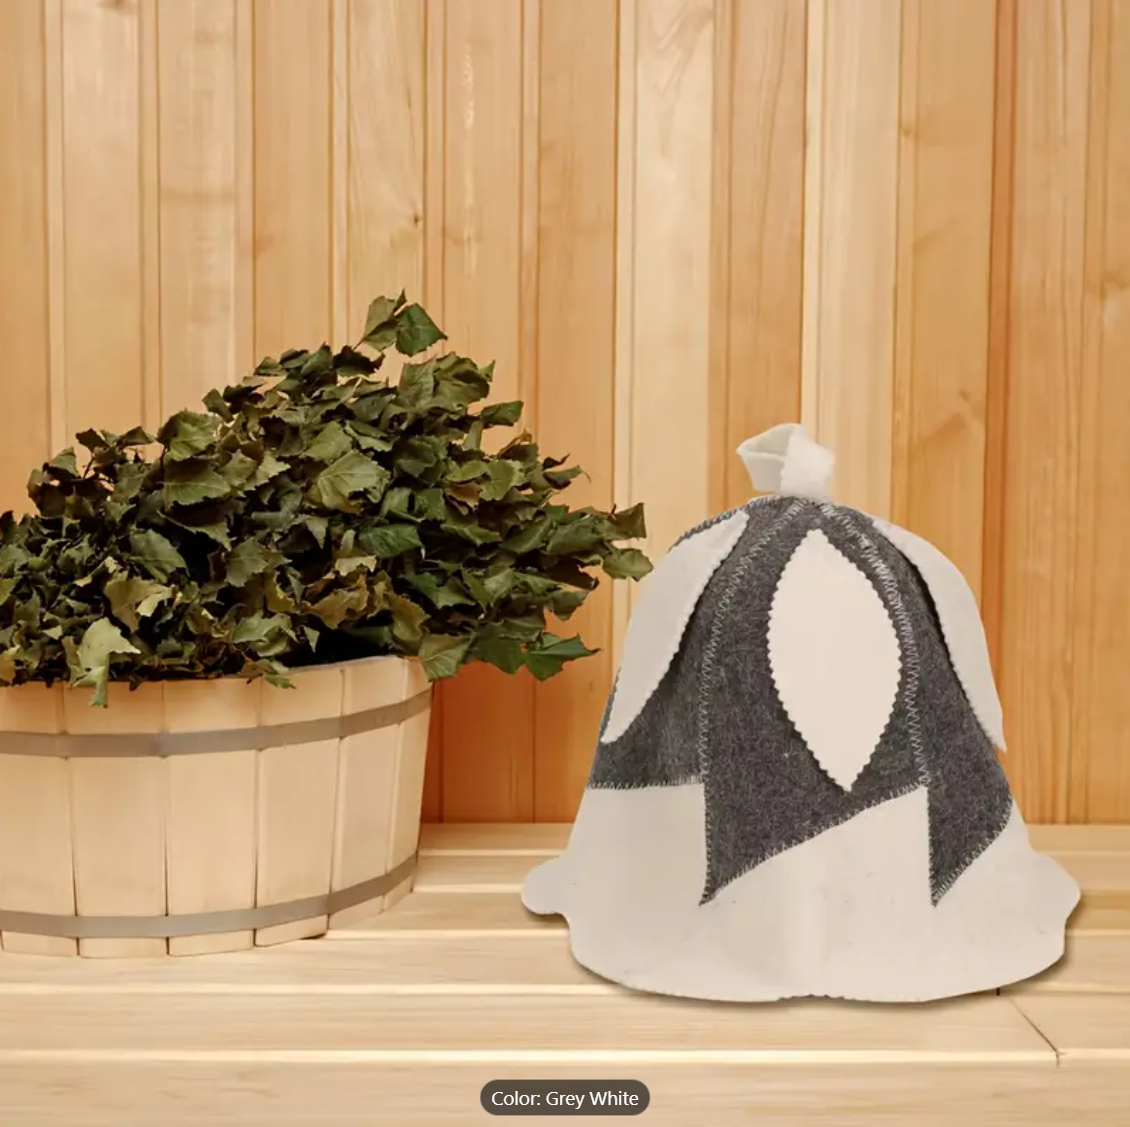
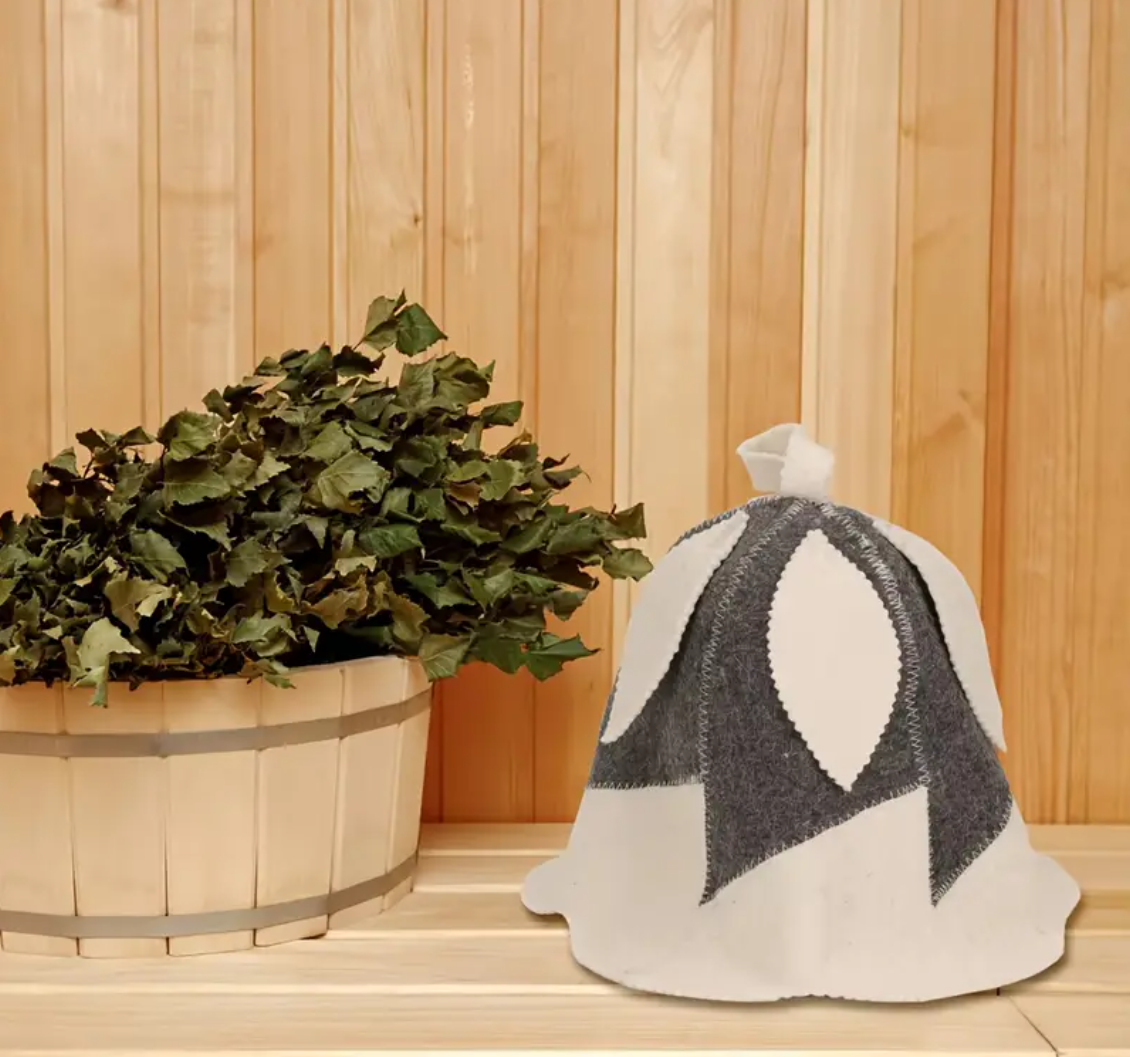
Constrain hero image height, crop caption strip from hero photo

diff --git a/css/style.css b/css/style.css
@@ -83,7 +83,8 @@ header.site {
 .hero h1 em { font-style: italic; color: var(--cedar); }
 .hero p.lead { font-size: 1.12rem; color: var(--char-soft); margin-bottom: 28px; max-width: 46ch; }
 .hero-cta { display: flex; gap: 14px; flex-wrap: wrap; }
-.hero-img { border-radius: 24px; overflow: hidden; box-shadow: var(--shadow); transform: rotate(1.2deg); }
+.hero-img { border-radius: 24px; overflow: hidden; box-shadow: var(--shadow); transform: rotate(1.2deg); max-height: 560px; }
+.hero-img img { width: 100%; height: 100%; max-height: 560px; object-fit: cover; object-position: center 72%; }
 .hero-badges { display: flex; gap: 22px; margin-top: 34px; flex-wrap: wrap; }
 .hero-badges span { font-size: .84rem; color: var(--char-soft); display: flex; align-items: center; gap: 7px; }
 